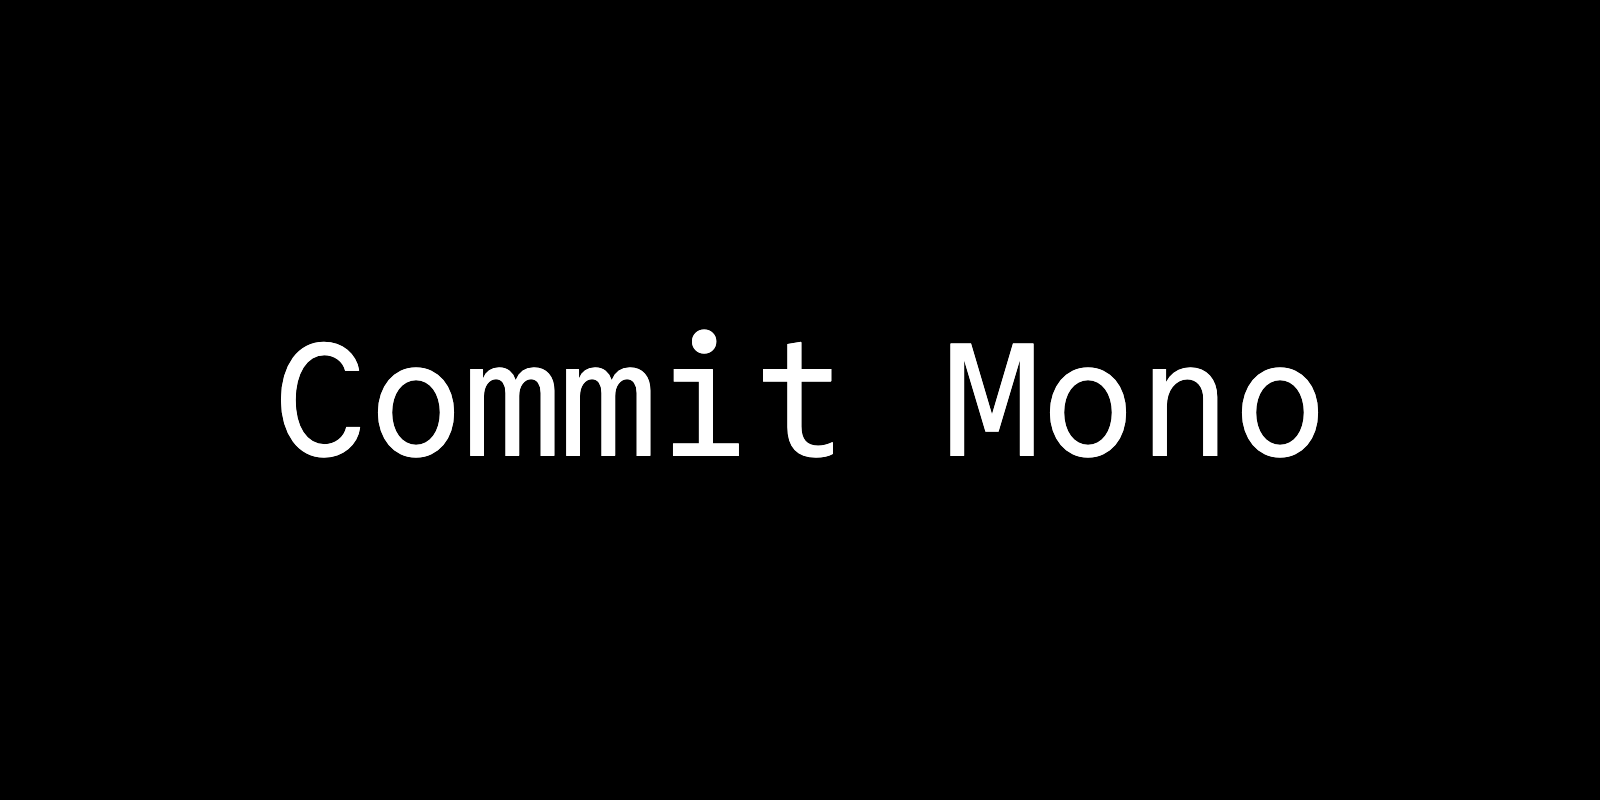
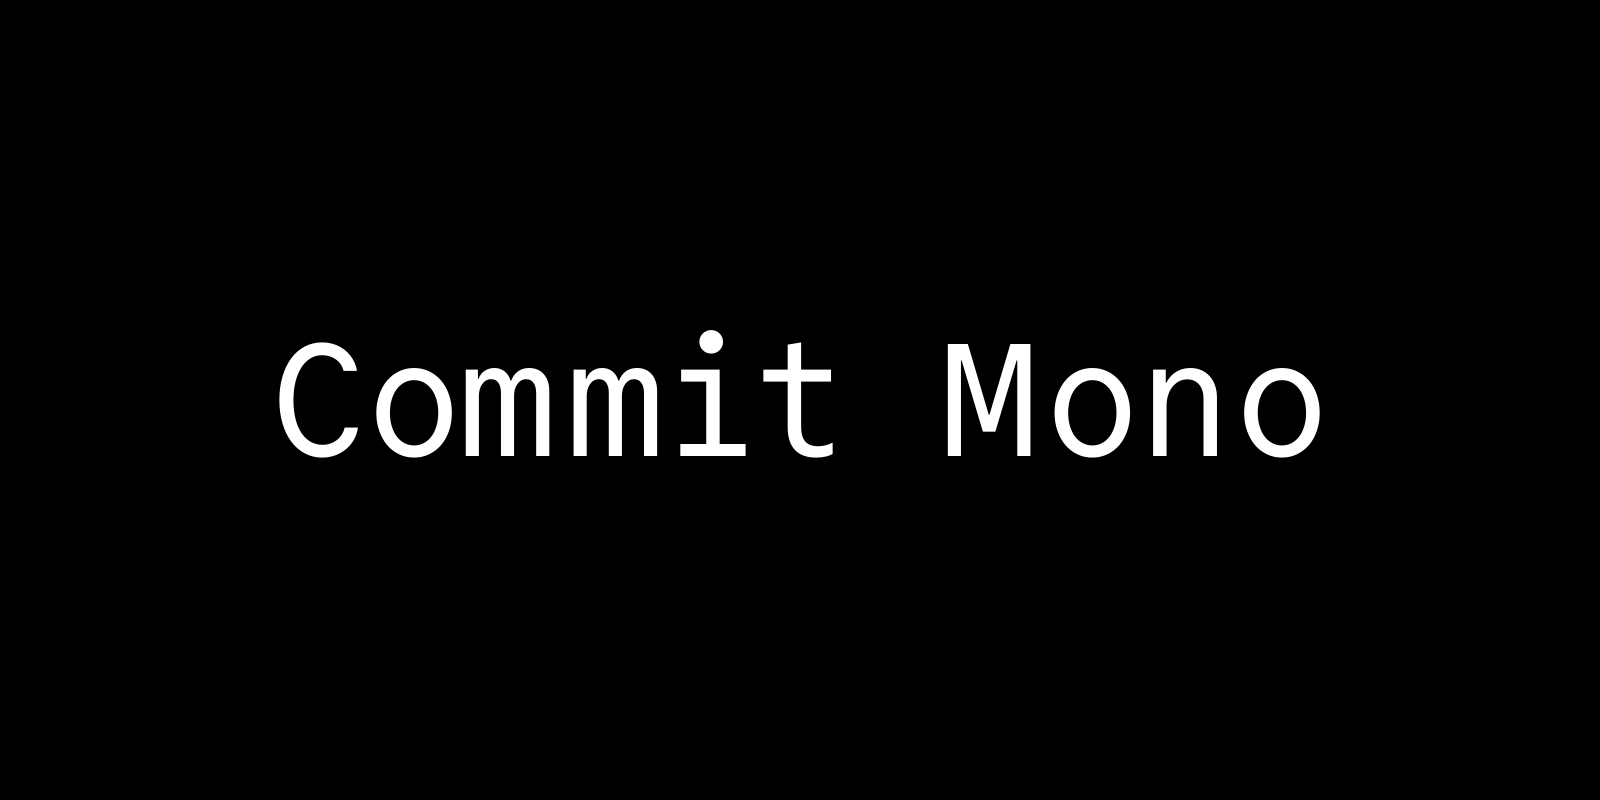
Enable Smart Kerning in Commit Mono specimens

diff --git a/components/font-listing/font-card.tsx b/components/font-listing/font-card.tsx
@@ -26,7 +26,7 @@ export function FontCard({ typeface, eager = false }: FontCardProps) {
             <div className="absolute inset-x-0 bottom-[40%] flex h-0 items-end justify-center min-[721px]:bottom-[35%]">
               <div
                 className="w-max shrink-0 text-[10rem] font-normal not-italic leading-none [font-family:var(--specimen-font,inherit)] origin-bottom [transform:scale(var(--specimen-scale,1))] opacity-[var(--specimen-title-opacity,0)]"
-                data-font-preview
+                data-font-preview={typeface.slug}
               >
                 <h1 className="m-0 whitespace-nowrap text-[1em] font-normal not-italic leading-[1.1] [text-box-trim:trim-end] [text-box-edge:cap_alphabetic]">
                   {typeface.name}

diff --git a/app/fonts/commit-mono.css b/app/fonts/commit-mono.css
@@ -6,6 +6,21 @@
   font-family: var(--commit-mono) !important;
 }
 
+@font-feature-values "Commit Mono", "BWT Preview commit-mono" {
+  @styleset {
+    smart-kerning: 5;
+  }
+}
+
+.commit-mono,
+[data-font-preview="commit-mono"] {
+  font-variant-alternates: styleset(smart-kerning);
+}
+
+.commit-mono #tester {
+  font-variant-alternates: normal;
+}
+
 @font-face {
   font-family: "Commit Mono";
   font-style: normal;

diff --git a/scripts/prepare-font-previews.py b/scripts/prepare-font-previews.py
@@ -49,6 +49,8 @@ def build_preview(source, target, slug, text):
         options = subset.Options()
         options.name_IDs = ["*"]  # Preserve copyright, license, and axis metadata.
         options.name_languages = ["*"]
+        if slug == "commit-mono":
+            options.layout_features.append("ss05")  # Smart Kerning on catalog cards.
         subsetter = subset.Subsetter(options=options)
         subsetter.populate(text=text)
         subsetter.subset(font)
